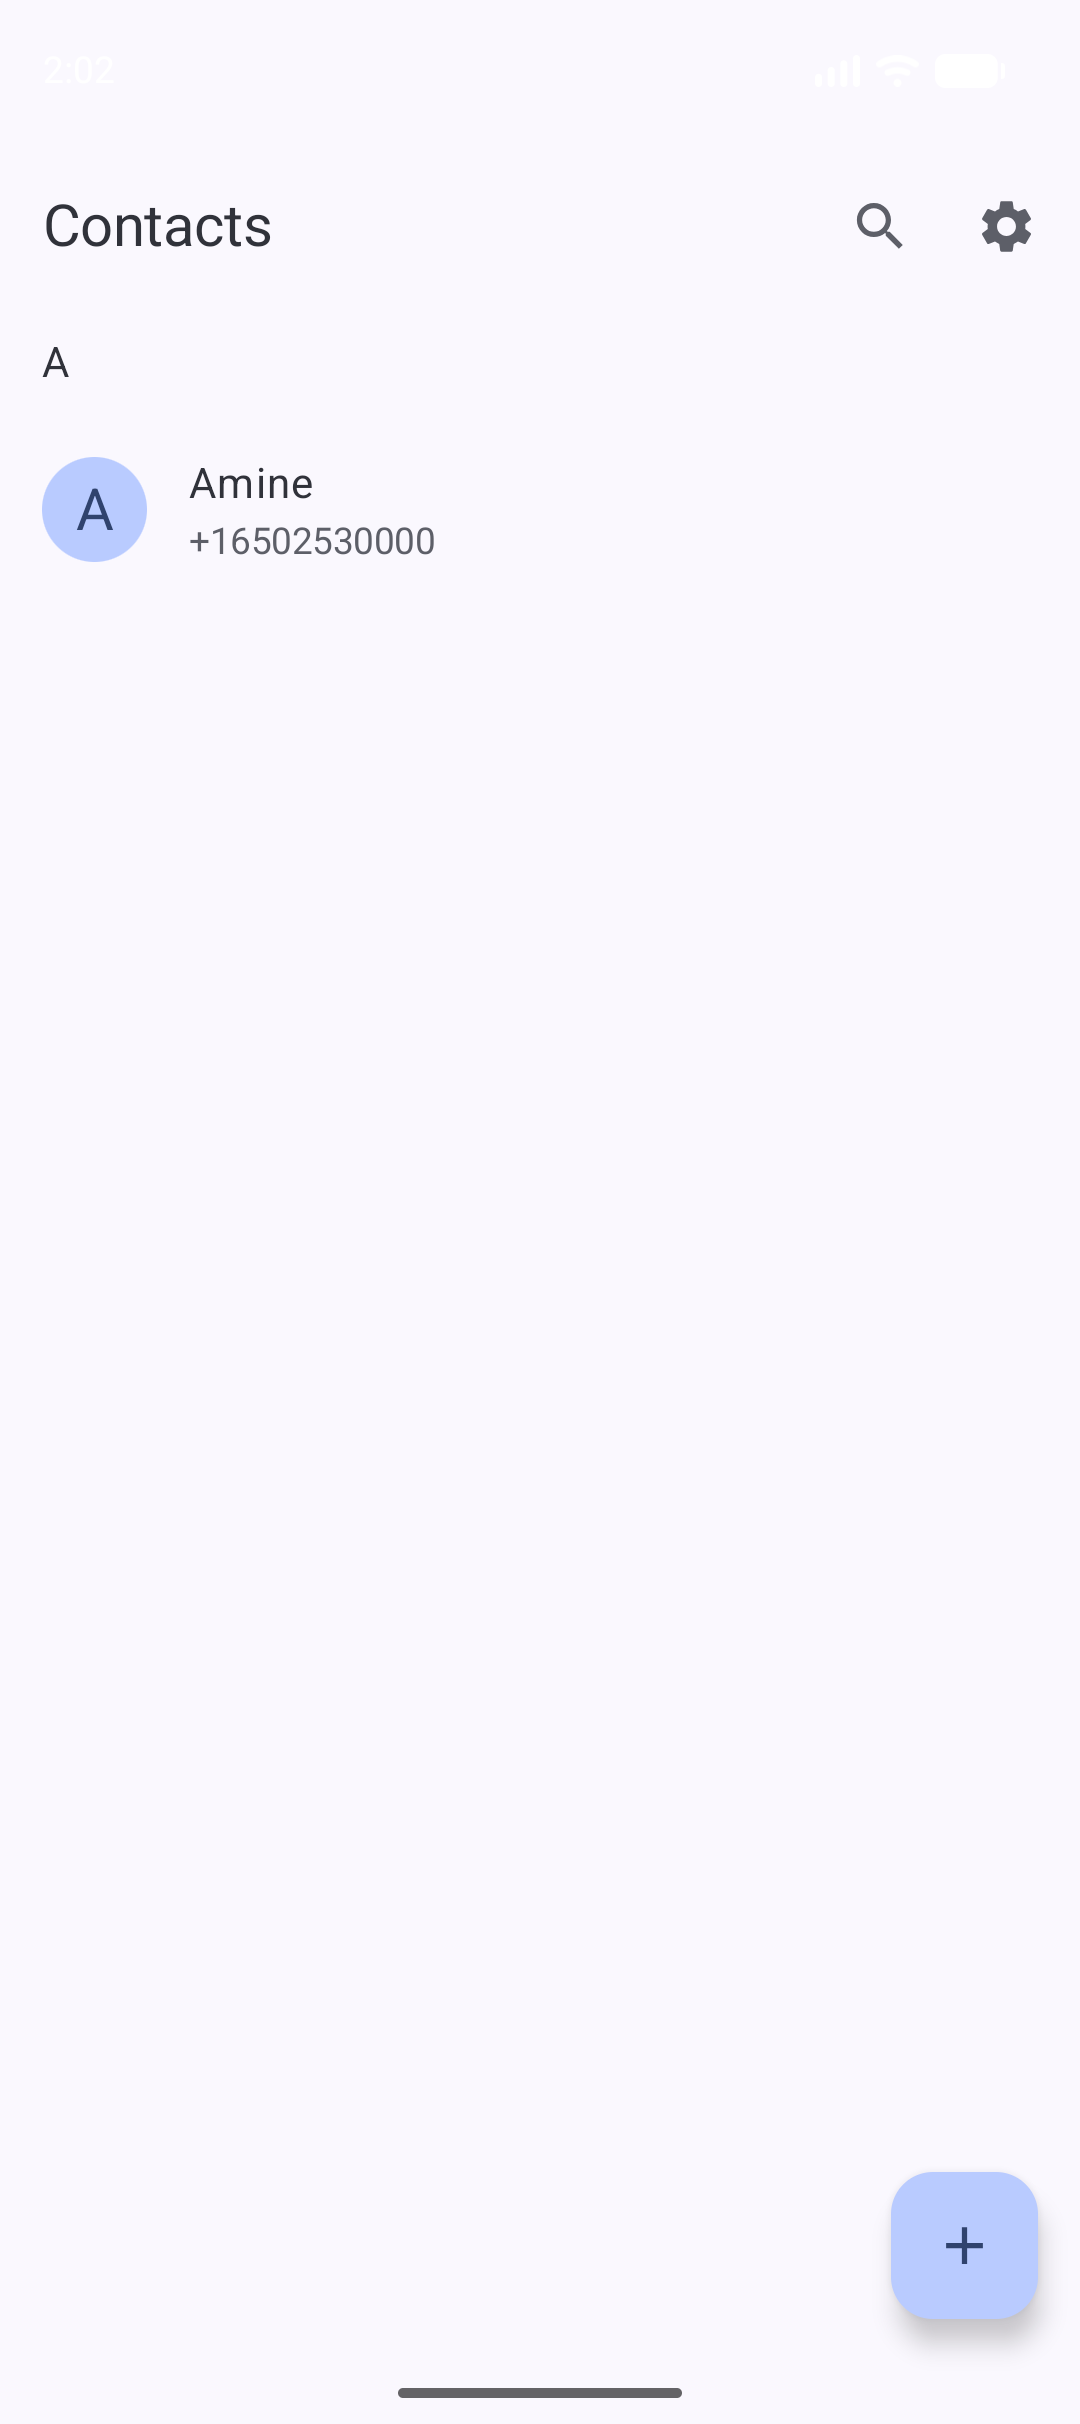
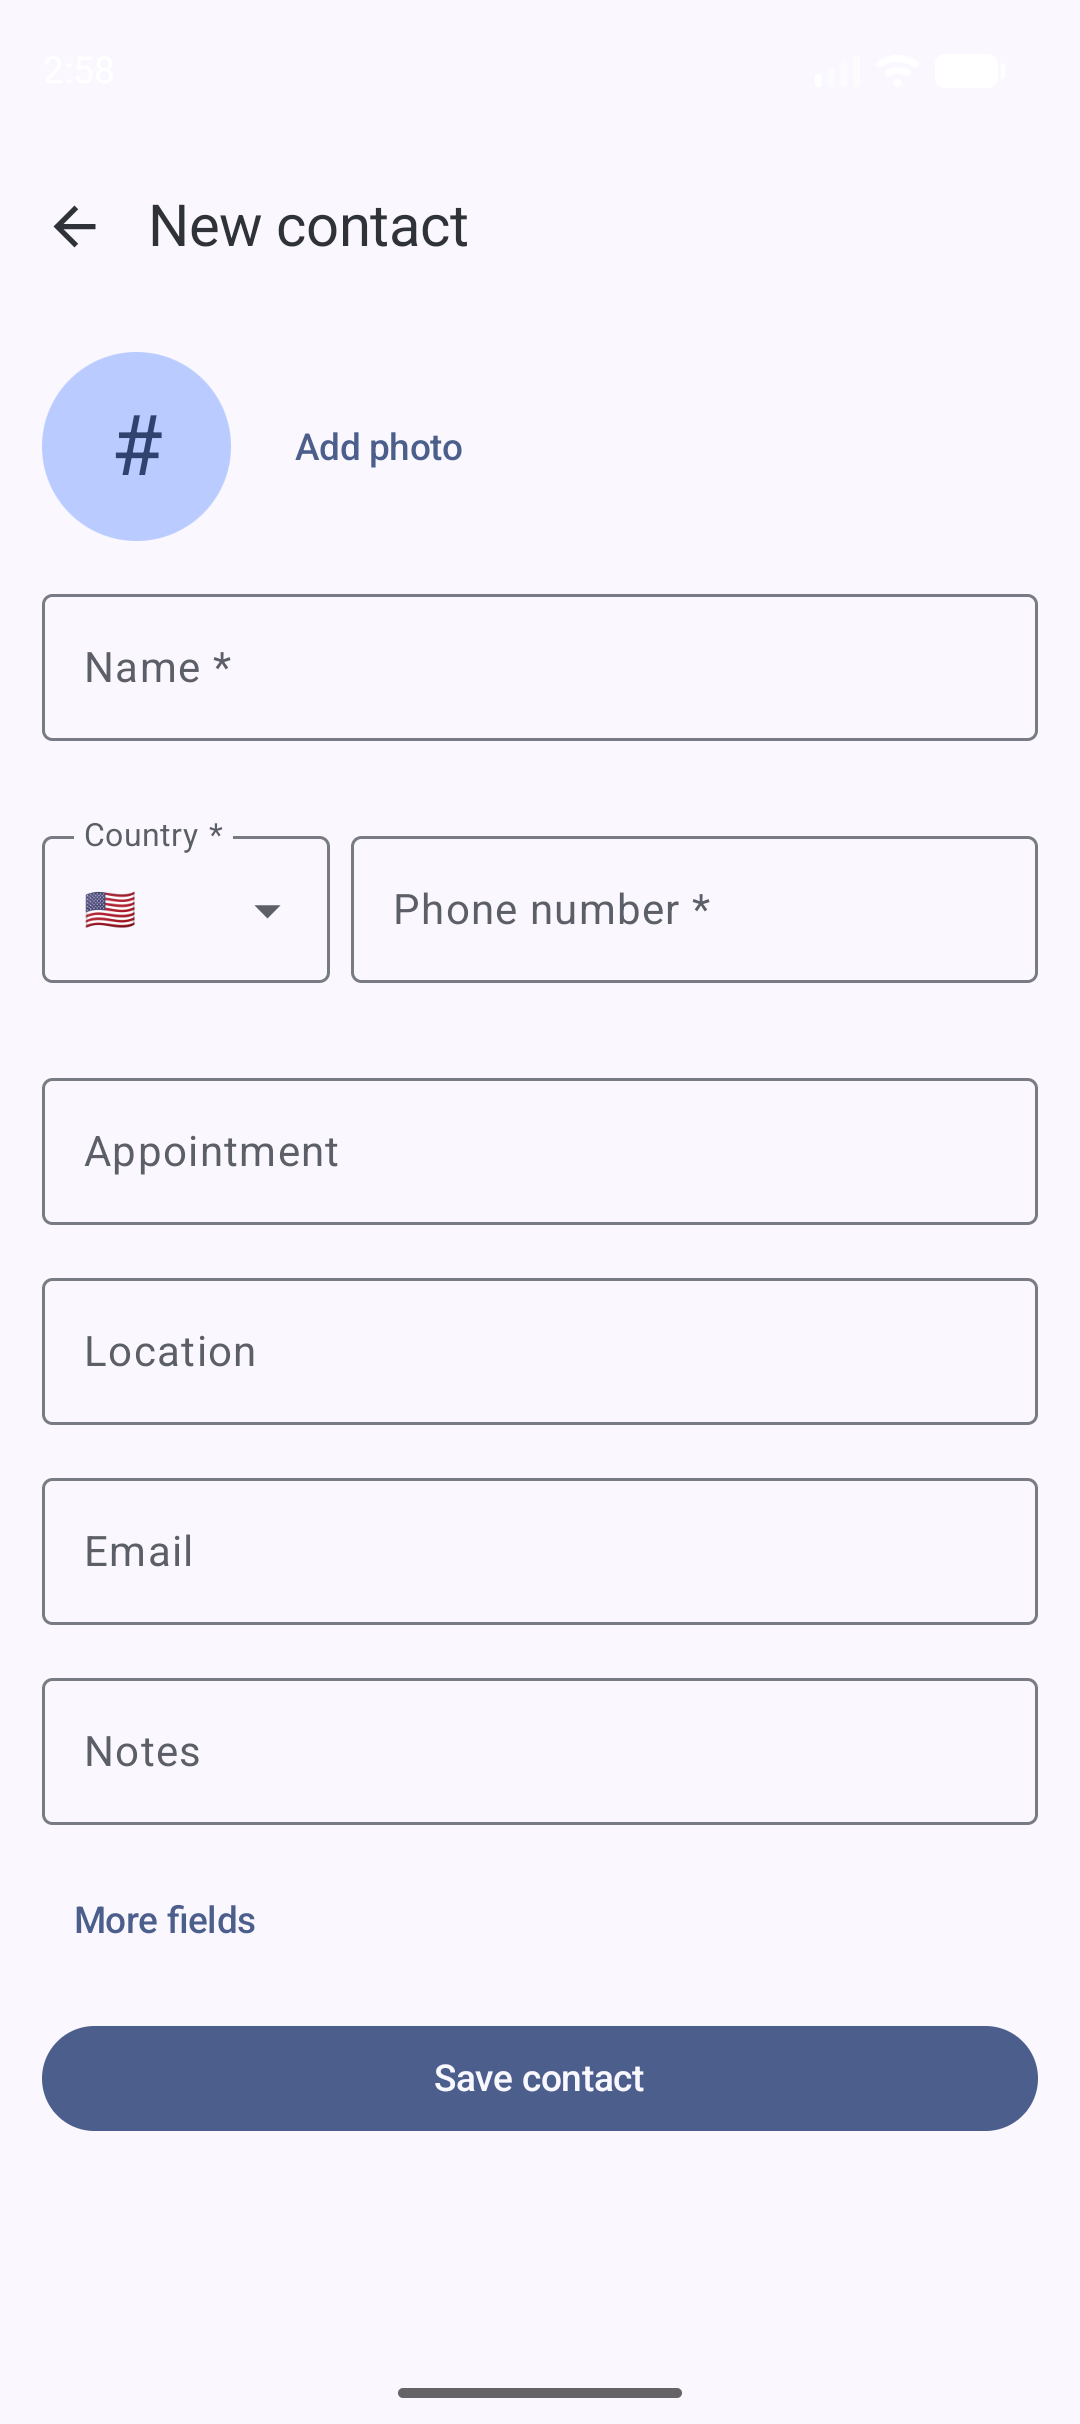
docs(readme): true editor screenshots light and dark

diff --git a/README.md b/README.md
@@ -48,7 +48,7 @@ requests **zero network permissions**.
 | Contacts | Editor | Details |
 |---|---|---|
 | [![Contacts light](screenshots/contacts-light.png)](screenshots/contacts-light.png) | [![Editor light](screenshots/editor-light.png)](screenshots/editor-light.png) | [![Details light](screenshots/preview-light.png)](screenshots/preview-light.png) |
-| [![Contacts dark](screenshots/contacts-dark.png)](screenshots/contacts-dark.png) | dark mode supported throughout (Dynamic Color) | [![Details dark](screenshots/preview-dark.png)](screenshots/preview-dark.png) |
+| [![Contacts dark](screenshots/contacts-dark.png)](screenshots/contacts-dark.png) | [![Editor dark](screenshots/editor-dark.png)](screenshots/editor-dark.png) | [![Details dark](screenshots/preview-dark.png)](screenshots/preview-dark.png) |
 
 <p align="right">(<a href="#readme-top">back to top</a>)</p>
 
